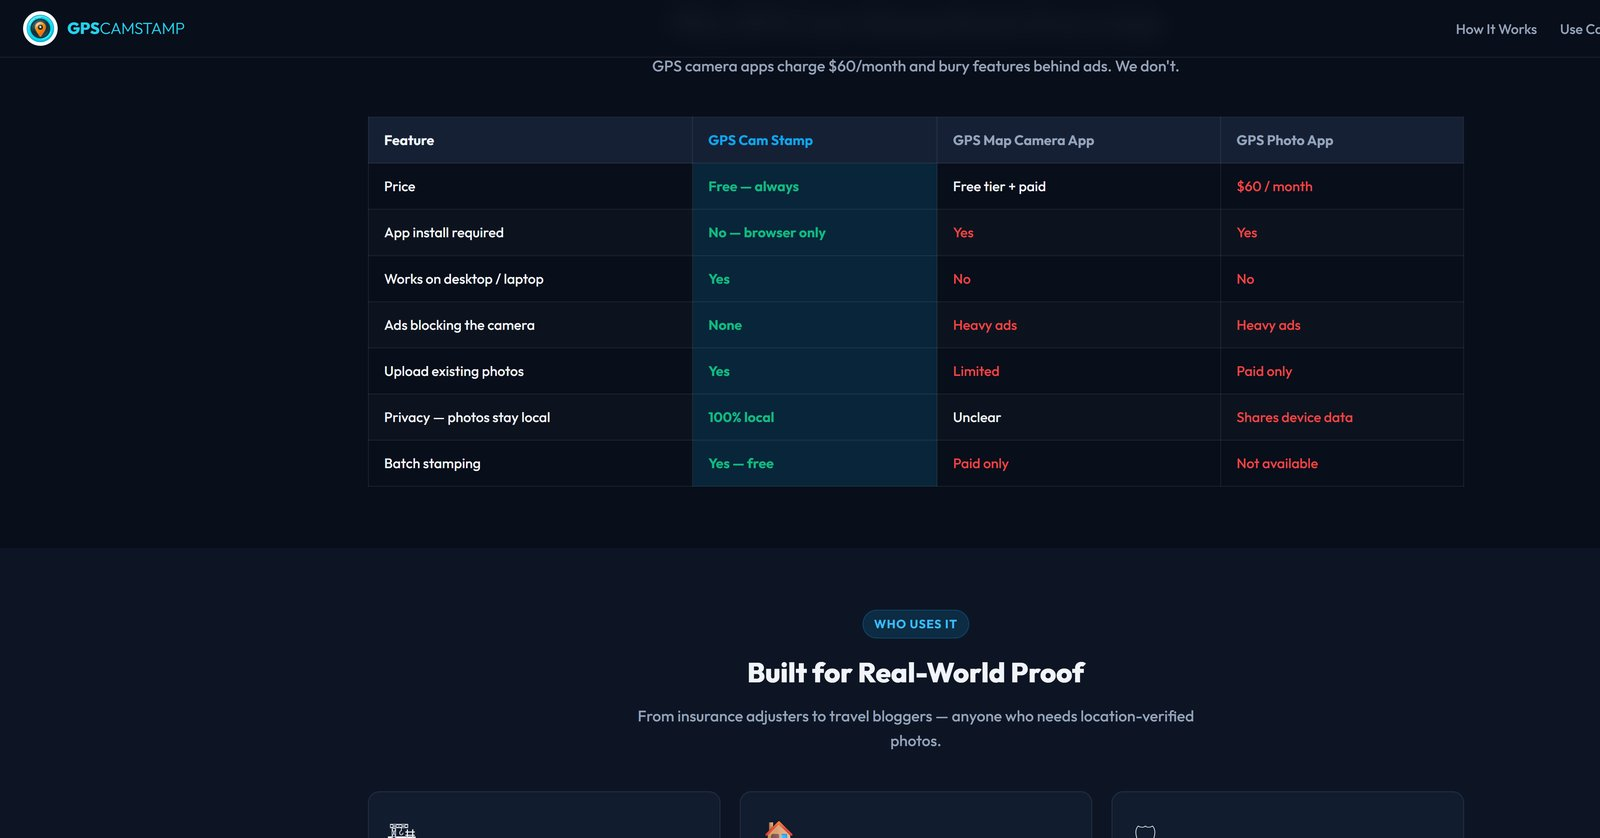
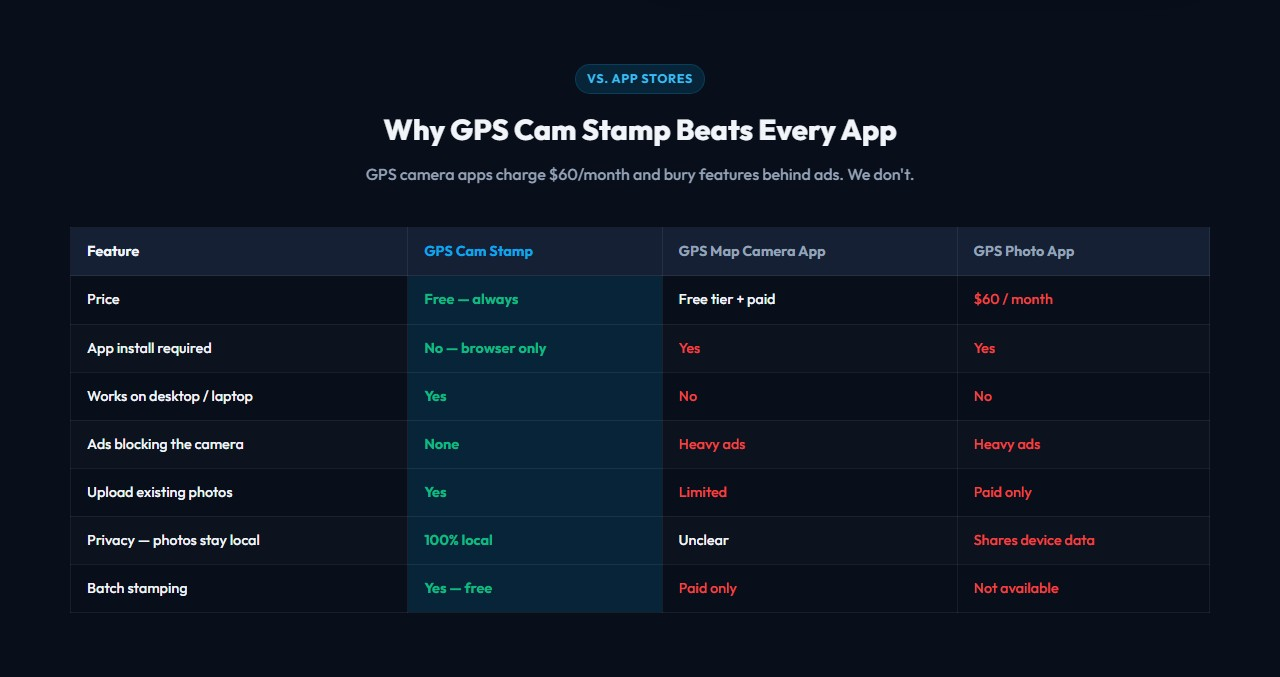
Retake AlternativeTo screenshots with Playwright at real desktop/mobile viewports.

diff --git a/scripts/capture_altto.py b/scripts/capture_altto.py
@@ -1,0 +1,228 @@
+"""Capture clean AlternativeTo screenshots via Playwright (not Cursor browser)."""
+from __future__ import annotations
+
+import base64
+import os
+from pathlib import Path
+
+from playwright.sync_api import sync_playwright
+
+ROOT = Path(__file__).resolve().parents[1]
+OUT = ROOT / "assets" / "alternativeto"
+URL = "https://www.gpscamstamp.com/?v=20"
+
+
+SETUP_JS = r"""
+() => new Promise((resolve) => {
+  document.querySelectorAll('.ad-slot').forEach((el) => { el.style.display = 'none'; });
+
+  const allowBtn = [...document.querySelectorAll('button')]
+    .find((b) => /Allow Camera/i.test(b.textContent || ''));
+  if (allowBtn) {
+    let box = allowBtn.parentElement;
+    for (let i = 0; i < 5 && box; i++) {
+      if (/Allow Camera/i.test(box.innerText || '')) {
+        box.style.display = 'none';
+        break;
+      }
+      box = box.parentElement;
+    }
+  }
+  [...document.querySelectorAll('div,p,span')].forEach((el) => {
+    if (el.childElementCount < 2 && /Camera & location needed/i.test(el.textContent || '')) {
+      const row = el.closest('div');
+      if (row && row.offsetHeight < 100) row.style.display = 'none';
+    }
+  });
+
+  const makePhoto = (w, h) => {
+    const off = document.createElement('canvas');
+    off.width = w;
+    off.height = h;
+    const ctx = off.getContext('2d');
+    const g = ctx.createLinearGradient(0, 0, 0, h);
+    g.addColorStop(0, '#3d6f98');
+    g.addColorStop(0.4, '#b9ccd8');
+    g.addColorStop(0.52, '#7d8c9a');
+    g.addColorStop(1, '#2f363f');
+    ctx.fillStyle = g;
+    ctx.fillRect(0, 0, w, h);
+    ctx.fillStyle = '#24303a';
+    const bw = w / 5.2;
+    const baseY = h * 0.42;
+    [[0.06, 0.48], [0.28, 0.38], [0.52, 0.44], [0.74, 0.34]].forEach(([fx, fh]) => {
+      ctx.fillRect(w * fx, baseY, bw, h * fh);
+    });
+    ctx.fillStyle = '#1a2028';
+    ctx.fillRect(0, h * 0.9, w, h * 0.1);
+    ctx.strokeStyle = '#cfd4da';
+    ctx.lineWidth = Math.max(3, w / 300);
+    ctx.setLineDash([w / 30, w / 40]);
+    ctx.beginPath();
+    ctx.moveTo(w / 2, h * 0.9);
+    ctx.lineTo(w / 2, h);
+    ctx.stroke();
+    ctx.fillStyle = 'rgba(255,228,150,0.55)';
+    ctx.beginPath();
+    ctx.arc(w * 0.82, h * 0.14, Math.min(w, h) * 0.06, 0, Math.PI * 2);
+    ctx.fill();
+    return off.toDataURL('image/jpeg', 0.92);
+  };
+
+  // Portrait for stamp exports / mobile; landscape fill for desktop tool preview
+  const mode = window.__ALTTO_PHOTO_MODE || 'portrait';
+  const src = mode === 'landscape' ? makePhoto(1600, 900) : makePhoto(1080, 1440);
+
+  const img = new Image();
+  img.onload = () => {
+    capturedImage = img;
+    gpsData = {
+      lat: 12.9716,
+      lng: 77.5946,
+      altitude: 920,
+      accuracy: 8,
+      heading: 42,
+      _exifDate: new Date('2026-09-25T13:24:00+05:30'),
+    };
+    addressData = {
+      city: 'Bengaluru',
+      state: 'Karnataka',
+      country: 'India',
+      road: 'MG Road',
+      postcode: '560001',
+      suburb: 'Ashok Nagar',
+    };
+    ['tog-address', 'tog-coords', 'tog-datetime', 'tog-map', 'tog-compass', 'tog-accuracy', 'tog-altitude']
+      .forEach((id) => {
+        const el = document.getElementById(id);
+        if (el) el.checked = true;
+      });
+    if (typeof syncToggleStyles === 'function') syncToggleStyles();
+    document.getElementById('previewWrap')?.classList.remove('hidden');
+    document.getElementById('panel-camera')?.classList.add('hidden');
+    setTemplate(window.__ALTTO_TEMPLATE || 'classic');
+    resolve(true);
+  };
+  img.src = src;
+});
+"""
+
+
+def save_data_url(data_url: str, path: Path) -> None:
+    raw = data_url.split(",", 1)[1]
+    path.write_bytes(base64.b64decode(raw))
+
+
+def main() -> None:
+    OUT.mkdir(parents=True, exist_ok=True)
+
+    with sync_playwright() as p:
+        browser = p.chromium.launch(headless=True)
+
+        page = browser.new_page(viewport={"width": 1280, "height": 900}, device_scale_factor=1)
+        page.goto(URL, wait_until="networkidle", timeout=60000)
+        page.wait_for_timeout(600)
+
+        # Desktop tool shots: landscape photo fills preview (no letterbox)
+        page.evaluate("() => { window.__ALTTO_PHOTO_MODE = 'landscape'; window.__ALTTO_TEMPLATE = 'classic'; }")
+        page.evaluate(SETUP_JS)
+        page.wait_for_timeout(400)
+        page.screenshot(
+            path=str(OUT / "altto-01-tool-classic.jpg"),
+            type="jpeg",
+            quality=90,
+        )
+        print("01 tool classic")
+
+        page.evaluate("() => setTemplate('pro')")
+        page.wait_for_timeout(250)
+        page.screenshot(
+            path=str(OUT / "altto-02-tool-pro.jpg"),
+            type="jpeg",
+            quality=90,
+        )
+        print("02 tool pro")
+
+        # Stamp close-ups: portrait photo + correct template via setTemplate()
+        page.evaluate("() => { window.__ALTTO_PHOTO_MODE = 'portrait'; }")
+        page.evaluate(SETUP_JS)
+        page.wait_for_timeout(300)
+        for tpl, fname in [
+            ("card", "altto-03-stamp-card.jpg"),
+            ("classic", "altto-04-stamp-classic.jpg"),
+            ("pro", "altto-02b-stamp-pro.jpg"),
+        ]:
+            data = page.evaluate(
+                """(tpl) => {
+                  setTemplate(tpl);
+                  return stampCanvas.toDataURL('image/jpeg', 0.9);
+                }""",
+                tpl,
+            )
+            save_data_url(data, OUT / fname)
+            print(fname, "canvas", page.evaluate("() => [stampCanvas.width, stampCanvas.height, currentTemplate]"))
+
+        page.evaluate(
+            """() => {
+              document.querySelector('.compare-table')?.closest('section')
+                ?.scrollIntoView({ block: 'start' });
+            }"""
+        )
+        page.wait_for_timeout(350)
+        box = page.evaluate(
+            """() => {
+              const sec = document.querySelector('.compare-table').closest('section');
+              const r = sec.getBoundingClientRect();
+              return {
+                x: Math.max(0, Math.floor(r.x)),
+                y: Math.max(0, Math.floor(r.y)),
+                width: Math.min(Math.ceil(r.width), window.innerWidth),
+                height: Math.min(Math.ceil(r.height), window.innerHeight - 16),
+              };
+            }"""
+        )
+        page.screenshot(
+            path=str(OUT / "altto-06-comparison.jpg"),
+            type="jpeg",
+            quality=90,
+            clip=box,
+        )
+        print("06 comparison", box)
+
+        page.close()
+
+        mobile = browser.new_page(
+            viewport={"width": 390, "height": 844},
+            device_scale_factor=2,
+            is_mobile=True,
+            has_touch=True,
+        )
+        mobile.goto(URL, wait_until="networkidle", timeout=60000)
+        mobile.wait_for_timeout(500)
+        mobile.evaluate("() => { window.__ALTTO_PHOTO_MODE = 'portrait'; window.__ALTTO_TEMPLATE = 'classic'; }")
+        mobile.evaluate(SETUP_JS)
+        mobile.wait_for_timeout(400)
+        mobile.evaluate("() => window.scrollTo(0, 0)")
+        # Crop to content width (avoid side letterboxing if any)
+        mobile.screenshot(
+            path=str(OUT / "altto-05-mobile.jpg"),
+            type="jpeg",
+            quality=90,
+        )
+        print("05 mobile")
+        browser.close()
+
+        # Prefer Pro stamp close-up for slot 02 if tool chrome is noisy — keep tool-pro as primary
+        pro_stamp = OUT / "altto-02b-stamp-pro.jpg"
+        if pro_stamp.exists():
+            # Keep both; form still points at tool-pro. Optional: copy stamp over if preferred later.
+            print("also wrote", pro_stamp.name)
+
+    for name in sorted(os.listdir(OUT)):
+        if name.startswith("altto-"):
+            fp = OUT / name
+            print(f"  {name}: {fp.stat().st_size // 1024} KB")
+
+
+if __name__ == "__main__":
+    main()

diff --git a/docs/ALTERNATIVETO_FORM.md b/docs/ALTERNATIVETO_FORM.md
@@ -75,14 +75,17 @@ Local file: `GeoStamper/assets/alternativeto/icon-512.png` (also `icon-256.png`)
 
 Paste URLs (or upload the same files from disk):
 
-1. `https://www.gpscamstamp.com/assets/alternativeto/altto-01-tool-classic.jpg` — desktop tool + Classic stamp  
-2. `https://www.gpscamstamp.com/assets/alternativeto/altto-03-stamp-card.jpg` — Card template stamp  
-3. `https://www.gpscamstamp.com/assets/alternativeto/altto-04-stamp-classic.jpg` — Classic stamp + fields  
-4. `https://www.gpscamstamp.com/assets/alternativeto/altto-02-tool-pro.png` → use `.jpg` if present: `altto-02-tool-pro.jpg` — Pro template  
-5. `https://www.gpscamstamp.com/assets/alternativeto/altto-05-mobile.jpg` — mobile layout  
-6. `https://www.gpscamstamp.com/assets/alternativeto/altto-06-comparison.jpg` — vs GPS Map Camera comparison  
+1. `https://www.gpscamstamp.com/assets/alternativeto/altto-01-tool-classic.jpg` — desktop tool (1280×900) with Classic stamp filled in preview  
+2. `https://www.gpscamstamp.com/assets/alternativeto/altto-02-tool-pro.jpg` — Pro template stamp (side panel) close-up  
+3. `https://www.gpscamstamp.com/assets/alternativeto/altto-03-stamp-card.jpg` — Card template stamp close-up  
+4. `https://www.gpscamstamp.com/assets/alternativeto/altto-04-stamp-classic.jpg` — Classic template stamp close-up  
+5. `https://www.gpscamstamp.com/assets/alternativeto/altto-05-mobile.jpg` — phone-width layout (390 CSS px)  
+6. `https://www.gpscamstamp.com/assets/alternativeto/altto-06-comparison.jpg` — desktop comparison table (centered crop)
 
-All under 3MB.
+All under 3MB. Regenerated with Playwright at 1280 desktop / 390 mobile — not Cursor embedded-browser captures (those added empty side gutters).
+
+Local folder: `GeoStamper/assets/alternativeto/`  
+Re-capture: `python scripts/capture_altto.py`
 
 ### Videos
 
